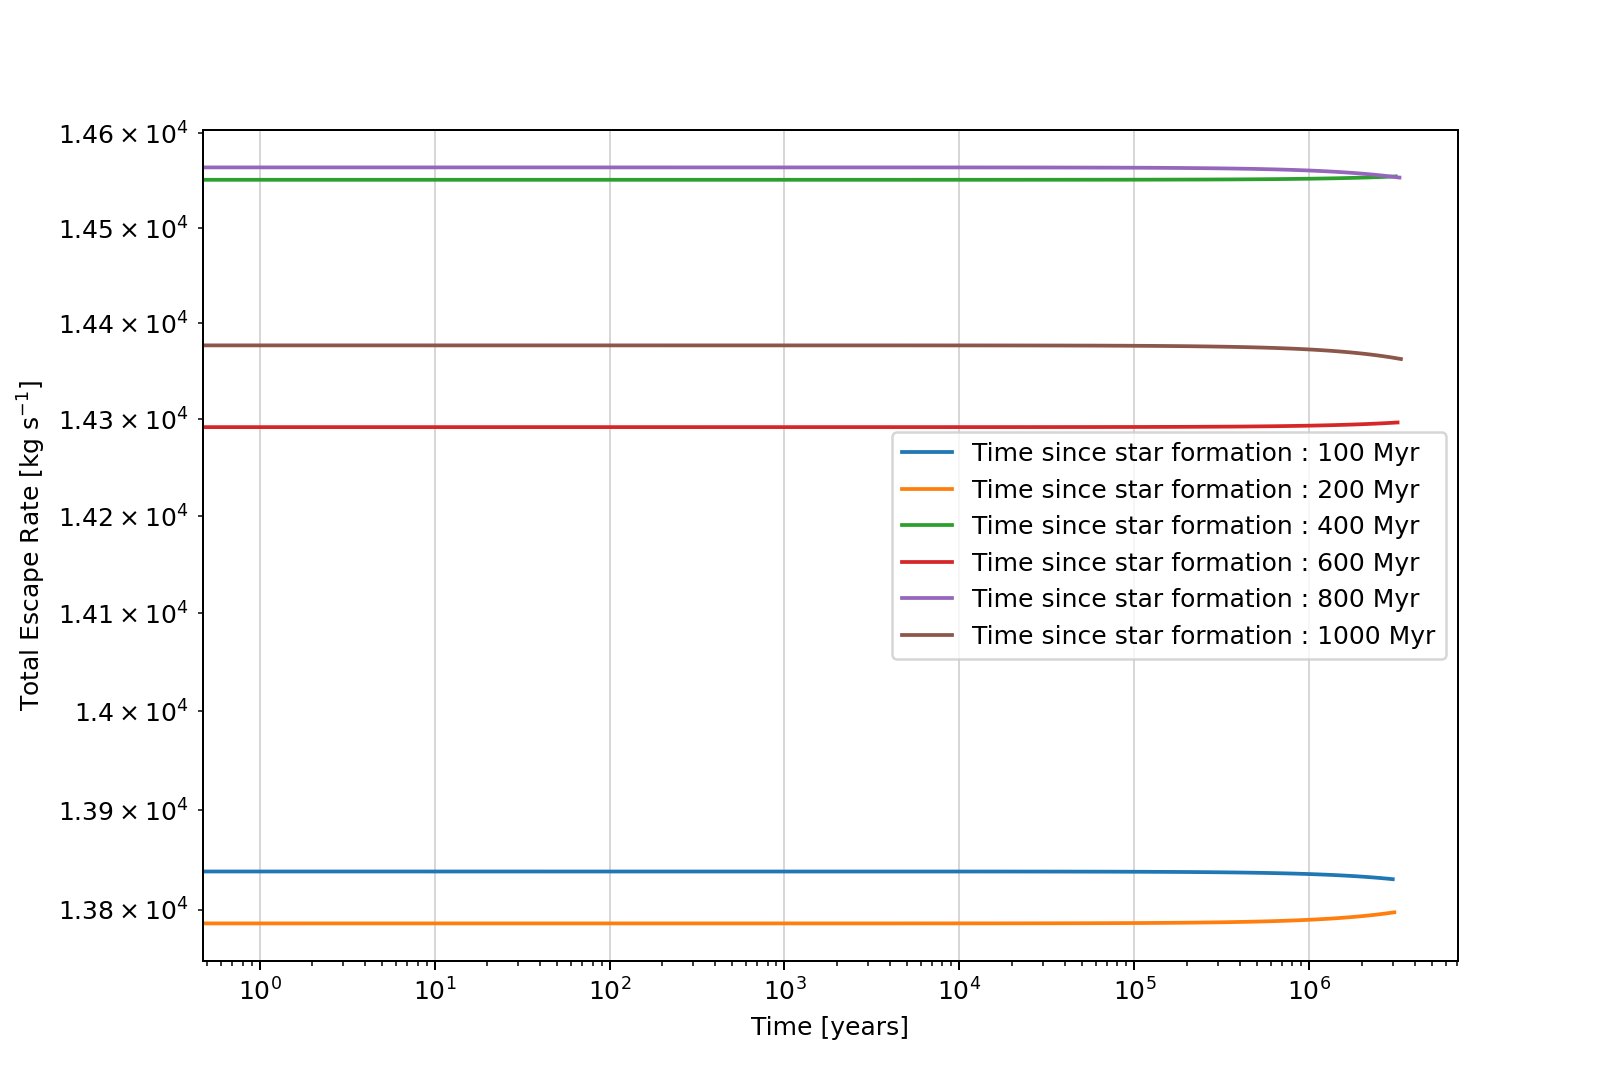
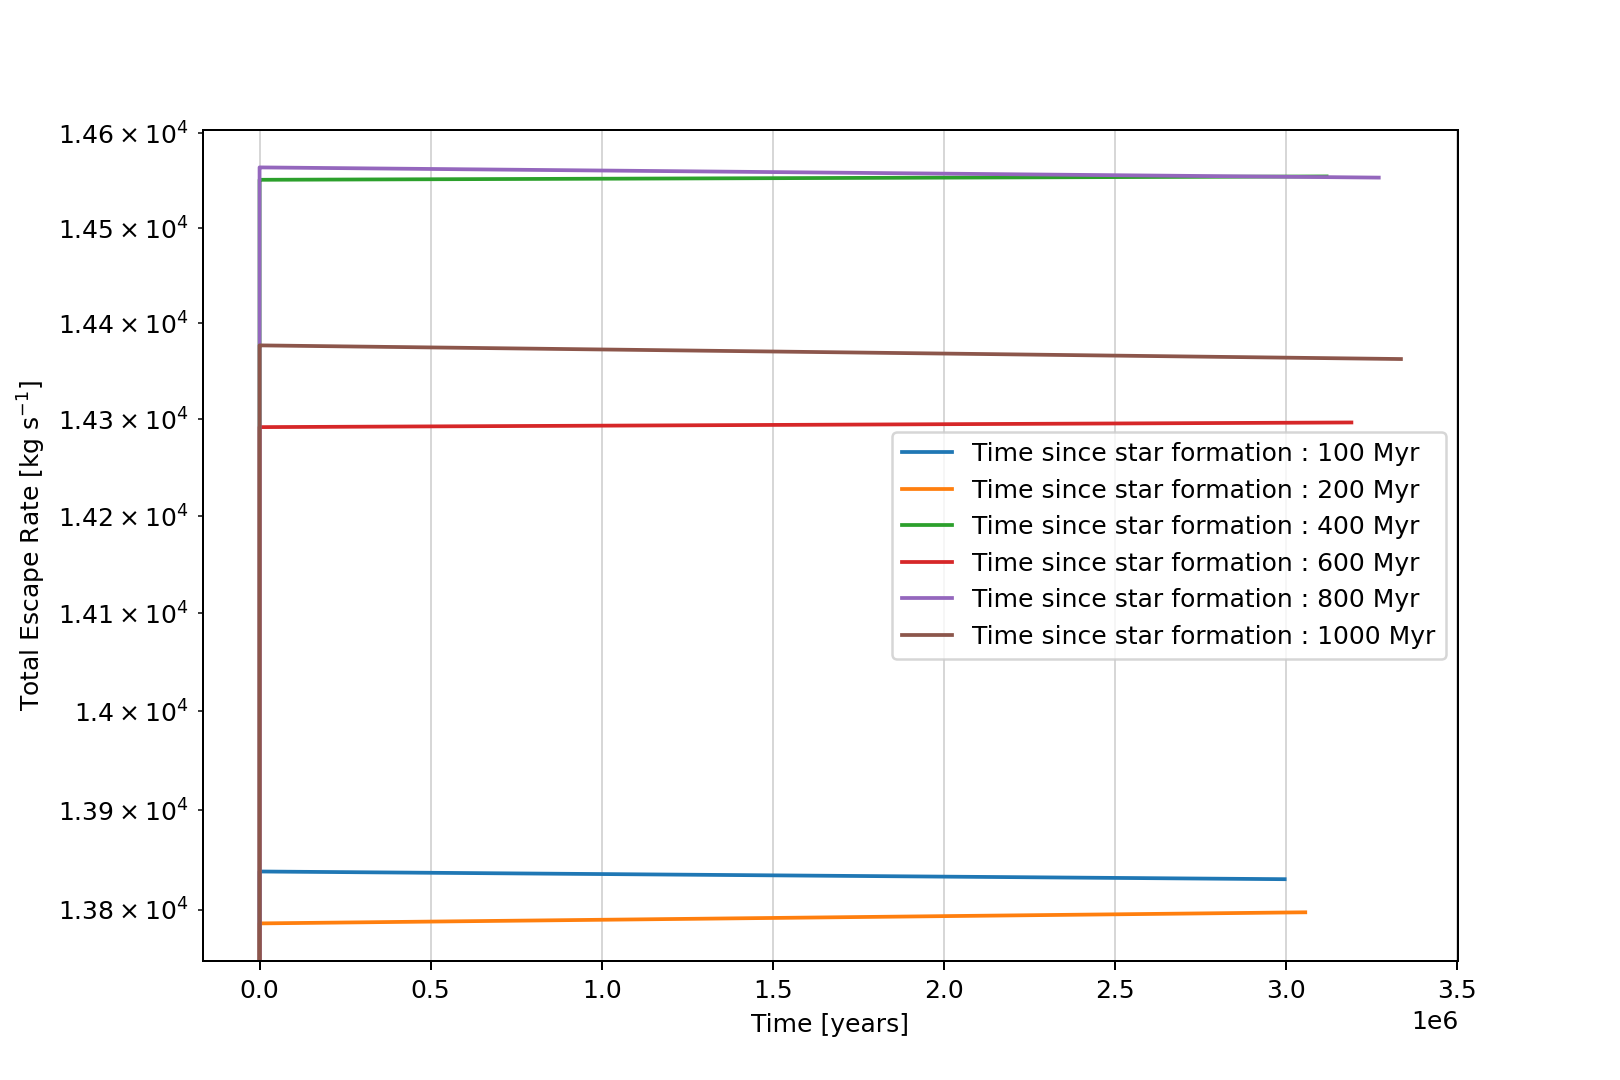
Try to compare simulations w different start_time : draft stage

diff --git a/plot_escape_comparison/verification_computation_escape.py b/plot_escape_comparison/verification_computation_escape.py
@@ -1,0 +1,64 @@
+from proteus.utils.constants import *
+import pandas as pd
+import mors
+import numpy as np
+from proteus.utils.zephyrus import EL_escape
+import matplotlib.pyplot as plt
+
+
+# Escape parameters
+tidal_contribution = 0             # tidal correction factor (0 < K_tide < 1)        [dimensionless]
+a                  = a_earth*AU    # planetary semi-major axis                       [m]
+e                  = e_earth       # planetary eccentricty                           [dimensionless]
+Mp                 = M_earth       # planetary mass                                  [kg]
+Ms                 = Ms            # Stellar mass                                    [kg]
+epsilon            = 0.50          # efficiency factor                               [dimensionless]
+Rp                 = R_earth       # planetary radius                                [m]
+Rxuv               = Rp            # XUV planetary radius                            [m]
+G                  = const_G       # gravitational constant                          [m3 kg-1 s-2]
+Omega_star         = 1.0           # Rotational rate of the star                     [Omega_sun]
+
+# List of start times for different simulations
+start_times = [100, 200, 400, 600, 800, 1000]
+
+Fxuv    = []
+escape  = []
+
+# Initialize a figure for plotting
+plt.figure(figsize=(12, 8))
+
+# Loop through each start time and process the corresponding file
+for start_time in start_times:
+    print('Start time = ', start_time, 'Myr')
+    # Get Fxuv as in RunZEPHYRUS() (= with Mors)
+    path_to_output      = '/Users/emmapostolec/Documents/PHD/SCIENCE/CODES/PROTEUS/output/'
+    sim_start_time      = f'escape_start_{start_time}Myr/'
+    csv_file            = 'runtime_helpfile.csv'
+    output_file         = path_to_output + sim_start_time + csv_file
+    df                  = pd.read_csv(output_file, delimiter='\t')
+    age_star            = df["age_star"]   # [years]
+
+    for time in age_star : 
+        # Initialize the Star object and global variables at time[0]
+        print(age_star[time])
+        star                = mors.Star(Mstar=Ms/Ms, Age=age_star[time]/1e6, Omega=Omega_star)
+        age_star_mors       = star.Tracks['Age']
+        Fxuv_mors           = ((star.Tracks['Lx'] + star.Tracks['Leuv']) / (4 * np.pi * (a * 1e2)**2)) * ergcm2stoWm2
+        Fxuv_interp         = np.interp(age_star[time], age_star_mors * 1e6, Fxuv_mors)
+        Fxuv.append(Fxuv_interp)   
+
+        mlr                 = EL_escape(tidal_contribution, a, e, Mp, Ms, epsilon, Rp, Rxuv, Fxuv_interp)
+        escape.append(mlr)
+
+
+        # Plotting the results
+        plt.plot(age_star, mlr, lw=2, label=f'Time after star formation = {start_time} Myr')
+
+# Configure the plot
+plt.xlabel('Time [years]')
+plt.ylabel(r'Total Escape Rate [kg s$^{-1}$]')
+plt.yscale('log')
+plt.legend(loc='best')
+plt.grid(alpha=0.5)
+plt.savefig('verification_plot_escape_start_times.png', dpi=180)
+plt.show()

diff --git a/plot_escape_comparison/plot_start_time_escape.py b/plot_escape_comparison/plot_start_time_escape.py
@@ -27,12 +27,13 @@ for i, (directory, label) in enumerate(directory_labels.items()):
         time_column = df['Time']
         escape_rate_column = df['esc_rate_total']
         
-        plt.loglog(time_column, escape_rate_column, label=label)
+        plt.plot(time_column, escape_rate_column, label=label)
     else:
         print(f"Warning: {full_path} does not exist.")
 
 plt.xlabel('Time [years]')
 plt.ylabel(r'Total Escape Rate [kg s$^{-1}$]')
+plt.yscale('log')
 # plt.xlim(left=1e6)  # Set x-axis to start at 
 # plt.xlim(right=3.4e6)  # Set x-axis to stop at
 plt.legend(loc='best')

diff --git a/src/proteus/utils/constants.py b/src/proteus/utils/constants.py
@@ -11,7 +11,7 @@ AU              = 1.495978707e+11       # m
 AU_cm           = AU * 100.0            # cm
 R_gas           = 8.31446261815324      # J K−1 mol−1
 M_earth         = 5.972E24              # kg
-R_earth         = 6.335439e6
+R_earth         = 6.335439e6            # m
 R_core_earth    = 3485000.0             # m
 M_core_earth    = 1.94E24               # kg
 mol             = 6.02214076e+23        # mol definition
